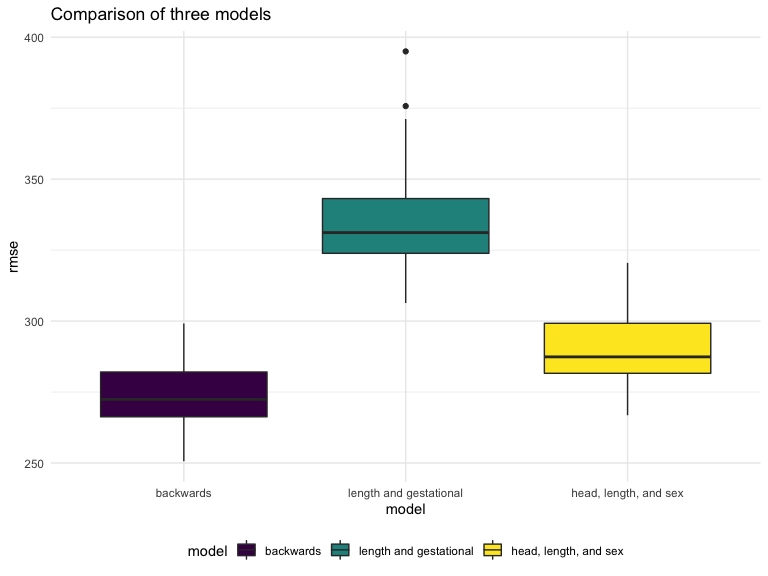
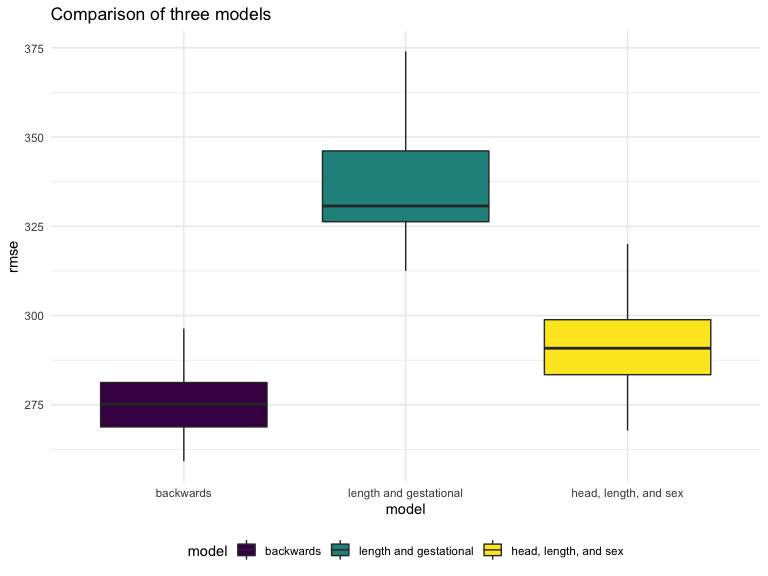
add description

diff --git a/p8105_hw6_hc3212.md b/p8105_hw6_hc3212.md
@@ -200,6 +200,9 @@ fit_df %>%
 
 <img src="p8105_hw6_hc3212_files/figure-gfm/boxplot-1.png" width="90%" />
 
+From the plot, the backwards model seems fit the model better, since it
+have the least rmse.
+
 ## Problem 2
 
 ``` r
@@ -273,9 +276,9 @@ callog %>%
   knitr::kable()
 ```
 
-|  ci_lower | ci_upper |
-|----------:|---------:|
-| 0.8533239 | 0.894472 |
+|  ci_lower |  ci_upper |
+|----------:|----------:|
+| 0.8538846 | 0.8939297 |
 
 Calculate *r*<sup>2</sup>
 
@@ -318,4 +321,4 @@ r_square %>%
 
 |  ci_lower |  ci_upper |
 |----------:|----------:|
-| 0.8938905 | 0.9278614 |
+| 0.8943356 | 0.9276631 |
